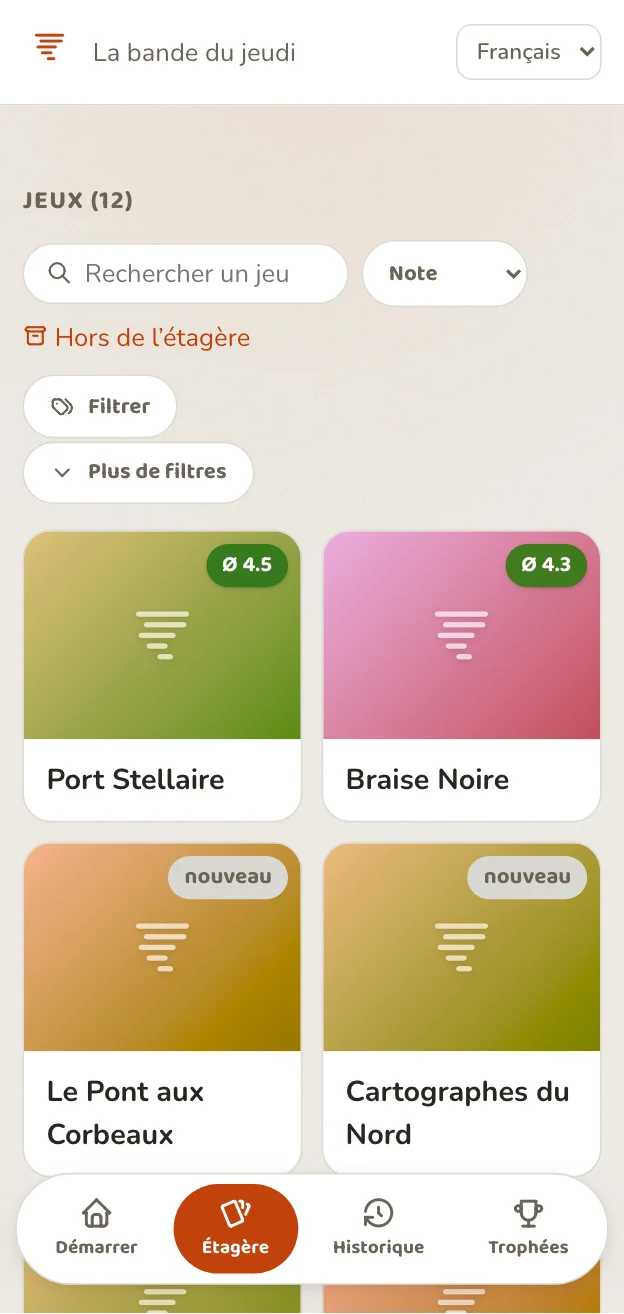
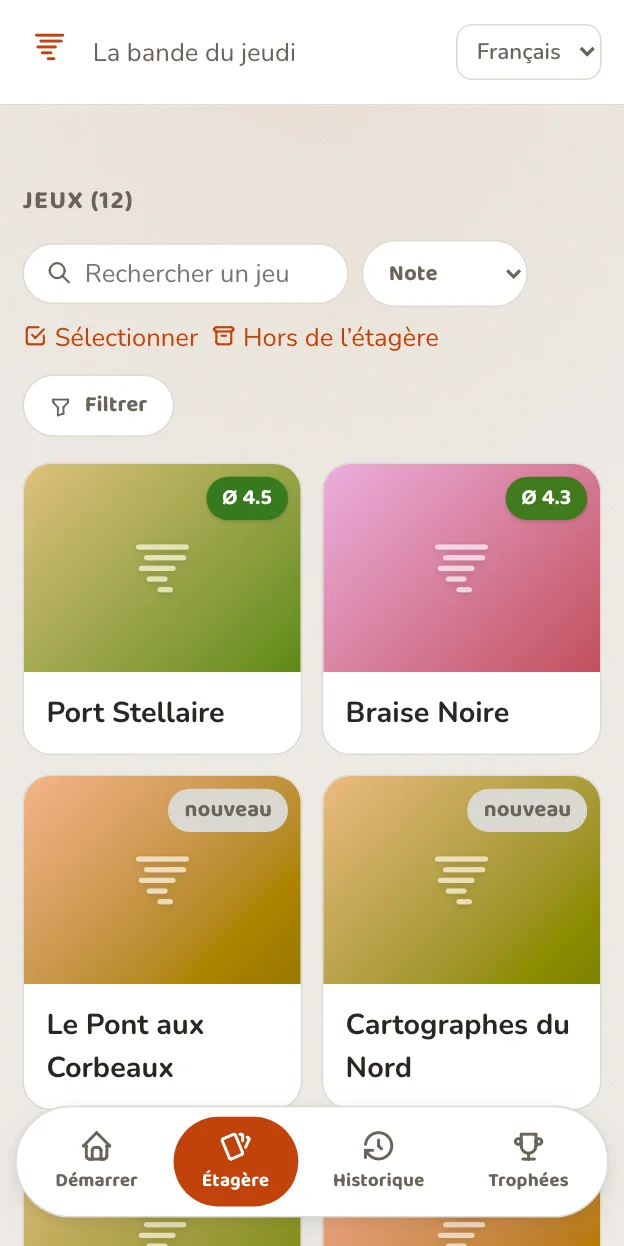
Reshoot the landing screenshots for the one-filter Regal (#827)
The Regal's above-grid area lost the tag chip row and the „Weitere Filter"
summary to the single „Filter" button, so all ten shelf assets depicted a
filter UI the app no longer has — the failure #752 was filed about, one
feature-generation on.

Re-derived both crops by each layout's own delta, the method the rule
prescribes, measured with --probe on both sides of the change:

    wide   row 1  594 -> 478   row 2  831 -> 715   crop 872 -> 756
    phone  row 1  514 -> 472   row 2  736 -> 694   crop 821 -> 779

The composition is preserved by construction, and it checks out: the wide cut
still lands 24px into row 3's cover art and the phone cut 68px into it, the
same two numbers as before. The rail is unmoved at 730 and the vote shot is
untouched (card bottom 617 either way) — its capture differs only in the
random game drawn, which the rule already calls cosmetic.

`LANDING_SHOTS` moves with the crop, since the declared sizes must equal the
files' real pixels: 1600x1090 -> 1600x945, 624x1314 -> 624x1246. Note the
phone height comes from the WebP header, not the capture script's log — at
779 x 1.6 the script prints 1247 and Chrome writes 1246, and the suite failed
on exactly that pixel.

All fifteen images were reviewed: correct locale and chrome throughout, the ⓘ
on every vote card, the „Filter" control on every shelf shot, placeholder
gradients only and no real cover art.

diff --git a/scripts/capture-landing-shots.js b/scripts/capture-landing-shots.js
@@ -56,19 +56,25 @@ const BASE = `http://127.0.0.1:${PORT}`;
 // game cards or the vote card, because the band moves with the *content* as
 // well as with the code — a title that wraps to a second line shifts it ~25px.
 const VIEWPORTS = {
-  // Both shelf crops grew by exactly what the Regal grew above its grid (#752).
-  // Two controls landed there after #669 — the bulk select/clear toggle (#723)
-  // and the „Weitere Filter" disclosure (#725) — and each pushes every card row
-  // down 41px. The wide layout shows both (+82); the phone collapses the tag
-  // half into its „Filter" chip and so takes only the disclosure (+41).
+  // Both shelf crops SHRANK by exactly what the Regal lost above its grid
+  // (#827), which is the mirror image of the #752 note this replaces. That note
+  // added +82 wide / +41 phone for two controls that had landed above the grid
+  // — the bulk select/clear toggle (#723) and the „Weitere Filter" disclosure
+  // (#725). #827 folds the whole tag half INTO one disclosure, so above the grid
+  // there is now a single 40px „Filter" button at every width.
   //
-  // Measured at 1280: rail ends 689, row 1 ends 557, row 2 ends 794. The old 790
-  // therefore landed 4px ABOVE row 2's bottom edge, slicing its titles; at 390
-  // it cut through row 3's badges. Shifting each crop by its own delta restores
-  // the composition #669 derived rather than re-deriving a new one: the cut
-  // still clears the rail and lands inside row 3's cover art.
-  shelfWide: { width: 1280, height: 872, deviceScaleFactor: 1.25, mobile: false },
-  shelfPhone: { width: 390, height: 821, deviceScaleFactor: 1.6, mobile: true },
+  // Measured with --probe on both sides of the change (rail 730, unmoved):
+  //
+  //            row 1 ends   row 2 ends   delta
+  //   wide      594 -> 478   831 -> 715   -116
+  //   phone     514 -> 472   736 -> 694    -42
+  //
+  // Shifting each crop by its OWN delta again preserves the composition rather
+  // than re-deriving a new one: the wide cut still clears the rail and lands
+  // 24px into row 3's cover art, the phone cut 68px into it — the same two
+  // numbers as before. The vote shot is untouched (card bottom 617 either way).
+  shelfWide: { width: 1280, height: 756, deviceScaleFactor: 1.25, mobile: false },
+  shelfPhone: { width: 390, height: 779, deviceScaleFactor: 1.6, mobile: true },
   // 720, not the 780 that shipped before #666. The vote card now SIZES ITSELF to
   // the viewport, so the crop is a fixed point rather than a free choice: the
   // cover is `max(110px, min(240px, calc(100svh - 480px)))`, which reaches its

diff --git a/public/js/views-landing.js b/public/js/views-landing.js
@@ -67,28 +67,28 @@ const LANDING_STEPS = ['landing.how.step1', 'landing.how.step2', 'landing.how.st
 // other.
 const LANDING_SHOTS = {
   de: {
-    shelfWide: { src: '/img/landing-shelf-wide.de.webp', w: 1600, h: 1090 },
-    shelfPhone: { src: '/img/landing-shelf-phone.de.webp', w: 624, h: 1314 },
+    shelfWide: { src: '/img/landing-shelf-wide.de.webp', w: 1600, h: 945 },
+    shelfPhone: { src: '/img/landing-shelf-phone.de.webp', w: 624, h: 1246 },
     vote: { src: '/img/landing-vote.de.webp', w: 624, h: 1152 },
   },
   en: {
-    shelfWide: { src: '/img/landing-shelf-wide.en.webp', w: 1600, h: 1090 },
-    shelfPhone: { src: '/img/landing-shelf-phone.en.webp', w: 624, h: 1314 },
+    shelfWide: { src: '/img/landing-shelf-wide.en.webp', w: 1600, h: 945 },
+    shelfPhone: { src: '/img/landing-shelf-phone.en.webp', w: 624, h: 1246 },
     vote: { src: '/img/landing-vote.en.webp', w: 624, h: 1152 },
   },
   es: {
-    shelfWide: { src: '/img/landing-shelf-wide.es.webp', w: 1600, h: 1090 },
-    shelfPhone: { src: '/img/landing-shelf-phone.es.webp', w: 624, h: 1314 },
+    shelfWide: { src: '/img/landing-shelf-wide.es.webp', w: 1600, h: 945 },
+    shelfPhone: { src: '/img/landing-shelf-phone.es.webp', w: 624, h: 1246 },
     vote: { src: '/img/landing-vote.es.webp', w: 624, h: 1152 },
   },
   fr: {
-    shelfWide: { src: '/img/landing-shelf-wide.fr.webp', w: 1600, h: 1090 },
-    shelfPhone: { src: '/img/landing-shelf-phone.fr.webp', w: 624, h: 1314 },
+    shelfWide: { src: '/img/landing-shelf-wide.fr.webp', w: 1600, h: 945 },
+    shelfPhone: { src: '/img/landing-shelf-phone.fr.webp', w: 624, h: 1246 },
     vote: { src: '/img/landing-vote.fr.webp', w: 624, h: 1152 },
   },
   it: {
-    shelfWide: { src: '/img/landing-shelf-wide.it.webp', w: 1600, h: 1090 },
-    shelfPhone: { src: '/img/landing-shelf-phone.it.webp', w: 624, h: 1314 },
+    shelfWide: { src: '/img/landing-shelf-wide.it.webp', w: 1600, h: 945 },
+    shelfPhone: { src: '/img/landing-shelf-phone.it.webp', w: 624, h: 1246 },
     vote: { src: '/img/landing-vote.it.webp', w: 624, h: 1152 },
   },
 };

diff --git a/.claude/rules/landing-product-screenshots.md b/.claude/rules/landing-product-screenshots.md
@@ -117,7 +117,7 @@ on a game carrying **provider metadata** rather than on the code being current:
 | Affordance | Gate | Renders nothing when |
 |---|---|---|
 | the vote card's ⓘ (#724/#730) | `hasGameInfo` (`public/js/game-info.js`) | the game has no weight/playtime/age/categories/mechanics |
-| the Regal's „Weitere Filter" (#725) | `metadataFilterOptions` (`public/js/draw-pool.js`) | no game on the shelf carries any of them |
+| the metadata half of the Regal's „Filter" panel (#725, #827) | `metadataFilterOptions` (`public/js/draw-pool.js`) | no game on the shelf carries any of them |
 
 Both gates are deliberate — a hand-typed game must look exactly as it always did
 — and the seed only ever set player counts. So #752's reshoot came out
@@ -244,6 +244,30 @@ only when the cards or the rail themselves change size. The old 790 was not
 merely suboptimal by then — it landed 4px *above* row 2's bottom edge, slicing
 its titles, and at 390px it cut through row 3's badges.
 
+**Re-measured for #827 (2026-08-28) — the mirror image of #752, and the current
+numbers.** #827 folds the tag half INTO the disclosure, so above the grid there
+is now one 40px „Filter" button at every width instead of a chip row plus a
+drawer summary. Probed on both sides of the change (rail **730**, unmoved):
+
+| | row 1 ends | row 2 ends | delta | crop |
+|---|---|---|---|---|
+| wide | 594 → **478** | 831 → **715** | −116 | 872 → **756** |
+| phone | 514 → **472** | 736 → **694** | −42 | 821 → **779** |
+
+Same method, opposite sign — and it is worth noting the method *verified* itself
+here: the wide cut still lands 24px into row 3's cover art and the phone cut
+68px into it, which are the two numbers the pre-change crops produced. The vote
+shot is untouched (card bottom 617 either way), and its capture is
+pixel-identical but for the random game.
+
+**Declaring the new sizes is a SEPARATE edit, and the suite catches it.** The
+crop drives the file's real pixels, so `LANDING_SHOTS` in `views-landing.js`
+must move with it — 1600×1090 → **1600×945**, 624×1314 → **624×1246**. Take the
+height from the **file header**, not from the script's log line: at
+779 × 1.6 the script reports 1247 and Chrome writes **1246**, and
+`test/landing-shots.test.js` reads the header. It failed on exactly that 1px,
+which is the assertion earning its keep.
+
 ### The vote crop is a FIXED POINT now, not a free choice (#669)
 
 Since #666 the vote card sizes itself to the viewport, so the crop height and the
@@ -286,12 +310,13 @@ calls, and they are worth writing down because the ratios are not round numbers:
 
 | Asset | CSS viewport | `deviceScaleFactor` | File |
 |---|---|---|---|
-| `landing-shelf-wide` | 1280 × 872 | 1.25 | 1600 × 1090 |
-| `landing-shelf-phone` | 390 × 821 | 1.6 | 624 × 1314 |
+| `landing-shelf-wide` | 1280 × 756 | 1.25 | 1600 × 945 |
+| `landing-shelf-phone` | 390 × 779 | 1.6 | 624 × 1246 |
 | `landing-vote` | 390 × **720** | 1.6 | 624 × **1152** |
 
-(1090 rather than 1089.9, and 1314 rather than 1313.6: Chrome rounds the raster
-up. Declare what the file says,
+(945 rather than 944.99, and 1246 rather than the 1247 the script's own log
+prints for 779 × 1.6: Chrome's rounding is not a rule you can predict from the
+arithmetic. Declare what the file says,
 which is what `test/landing-shots.test.js` reads back out of the WebP header.)
 
 ## 6. What the test can and cannot see
